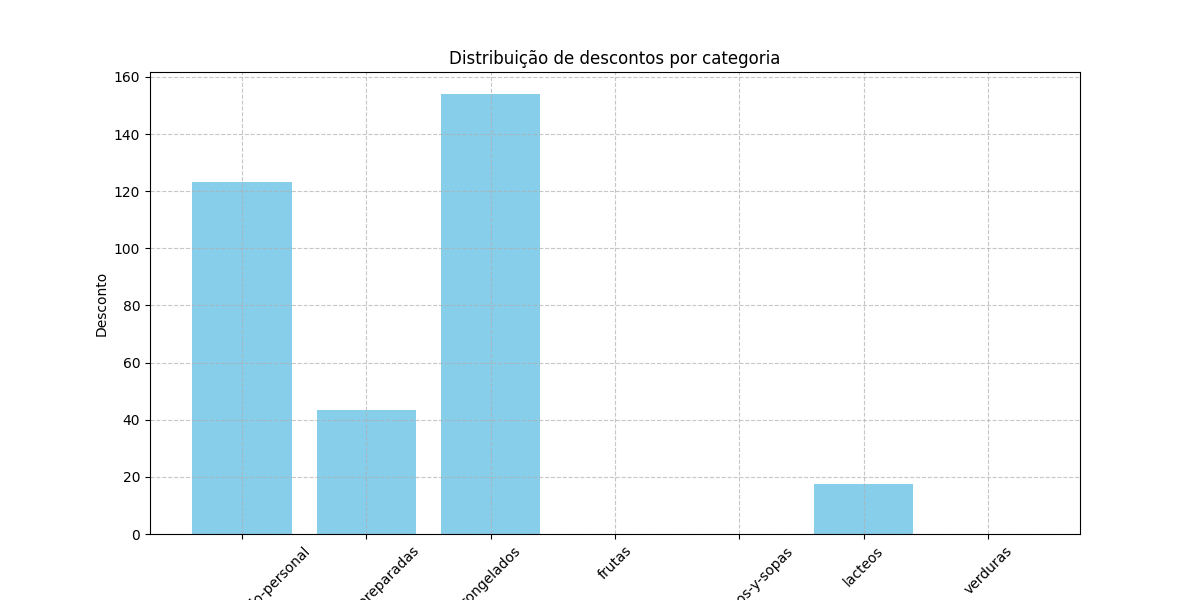
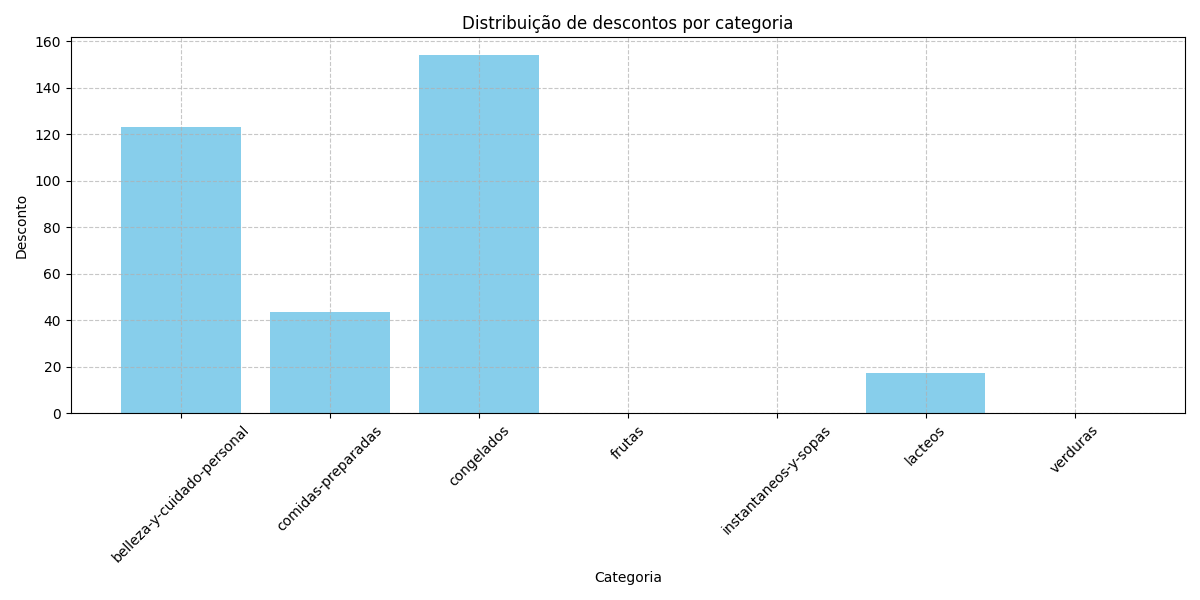
Ajustando as imagens

diff --git a/descoberta_dados.py b/descoberta_dados.py
@@ -36,6 +36,7 @@ plt.figure(figsize=(12, 6))
 plt.boxplot(lacteos, label=['Lacteos'])
 plt.title('Boxplot do preco_normal para a categoria lacteos', fontsize=16)
 plt.ylabel('Preço Normal')
+plt.tight_layout()
 plt.savefig('imagens/Boxplot_categoria_lacteos.png')
 plt.show()
 
@@ -49,6 +50,7 @@ plt.xlabel('Categoria')
 plt.ylabel('Desconto')
 plt.xticks(rotation=45)
 plt.grid(True, linestyle='--', alpha=0.7)
+plt.tight_layout()
 plt.savefig('imagens/Barras_desconto_categoria.png')
 plt.show()
 
